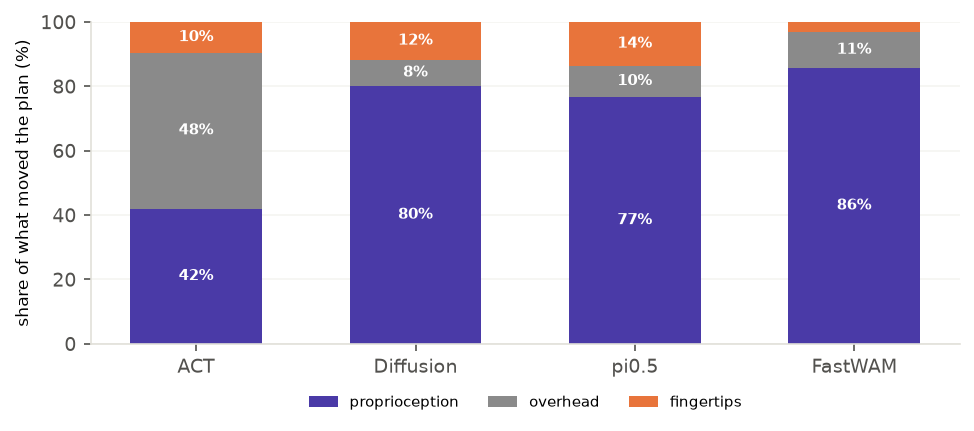
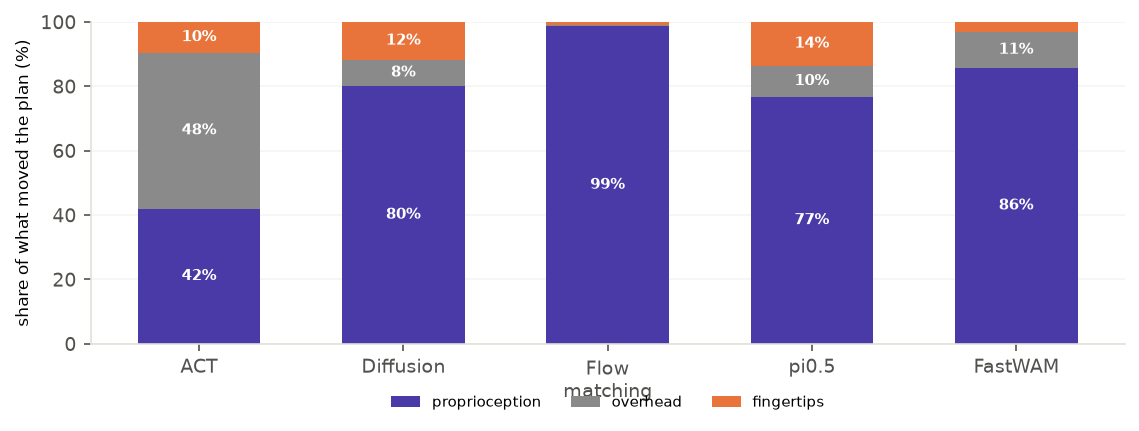
Flow matching saw a 2 % patch of each camera: say so, and retrain it resized
The flow-matching row kept Diffusion Policy's default crop_shape (84, 84) with
no resize, so on 480x640 frames each camera showed it about 2 % of the image;
its plan is 98.7 % proprioception and its patch maps light only the centre
cells. The report states this, and the run list gains the corrected row.

Claude-Session: https://claude.ai/code/session_0196vDjqm3Zo6sQgqQLb5qwQ

diff --git a/documents/paper/training_analysis/sections/03_experiments.tex b/documents/paper/training_analysis/sections/03_experiments.tex
@@ -52,7 +52,12 @@ converge (7.6 each at step 24), and by step 32 Diffusion is slightly ahead
 (9.2 against 9.8). Flow matching and pi0.5 share their training objective, and
 flow matching's error over the first ten steps is half pi0.5's (4.5 against
 9.0). On our data, pi0.5's pretraining with our narrow LoRA does worse than
-training a small model from scratch.}
+training a small model from scratch. This flow-matching run sees only a small
+central patch of each camera (Section~\ref{sec:models}), and 98.7\,\% of what
+moves its plan is proprioception (Figure~\ref{fig:streams}). That a policy
+which barely sees plans the first ten steps best says that over a third of a
+second the arms' own positions predict the next commands almost entirely.}
+\pending{flow matching retrained on resized, uncropped images.}
 
 \textbf{Diffusion is \new{the most accurate of the other behaviour-cloning
 policies} for the first steps of a plan, but its error grows fastest.} On the

diff --git a/documents/paper/training_analysis/sections/02_methods.tex b/documents/paper/training_analysis/sections/02_methods.tex
@@ -41,6 +41,11 @@ with a ResNet-18 encoder, \new{shared by all five cameras} and trained from
 scratch. Flow matching \citep{lipman2023flow} learns to move noise to an action
 chunk along straight lines. \new{It sees only the current frame and plans 50
 steps.} The model therefore separates pi0.5's objective from its pretraining.
+\new{The run reported here kept a default meant for small images: each camera
+frame, $480\times640$ pixels, is cropped to a random $84\times84$ patch in
+training and to the central one at test time, without being resized first. It
+therefore sees about 2\,\% of each image. We retrain it with Diffusion's
+handling, resizing to $180\times240$ without cropping.}
 
 \textbf{pi0.5} \citep{pi05} is a vision-language-action model: a pretrained
 vision-language model reads the images and a written instruction, and a
